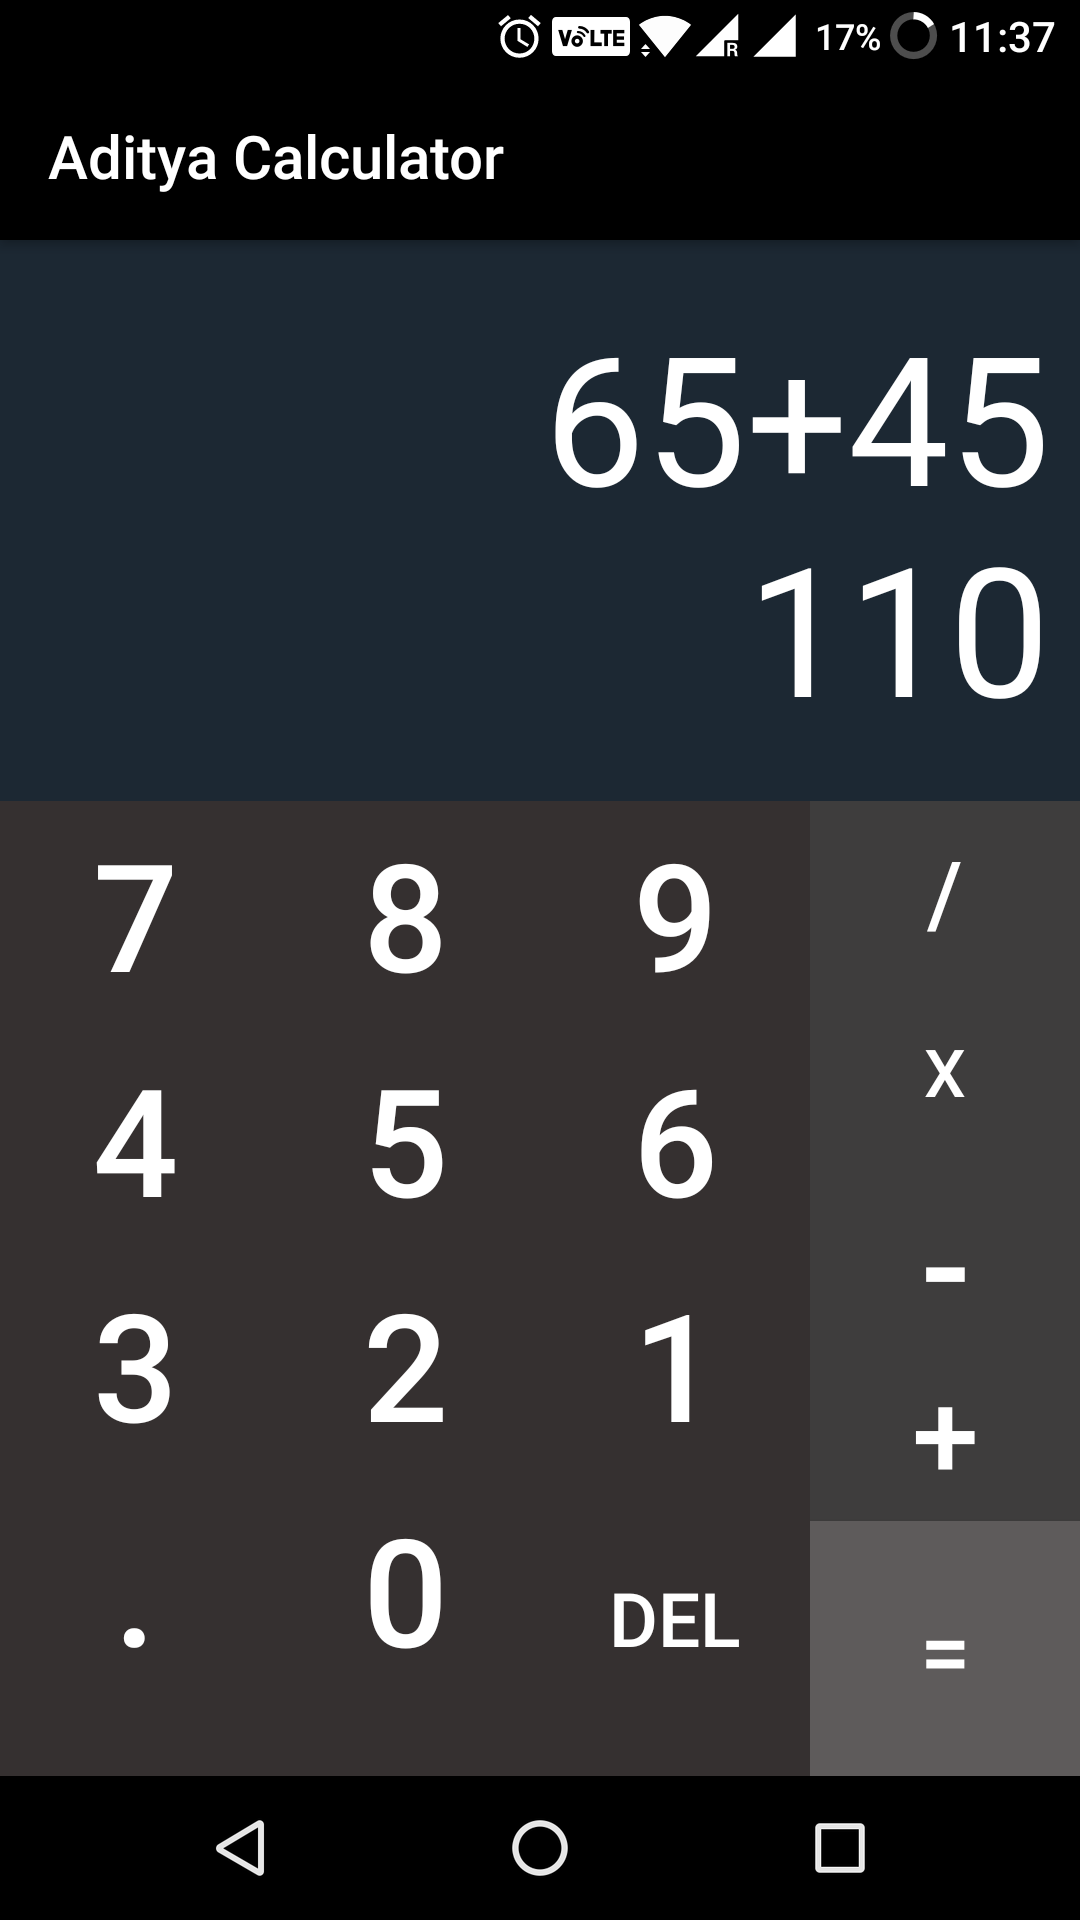
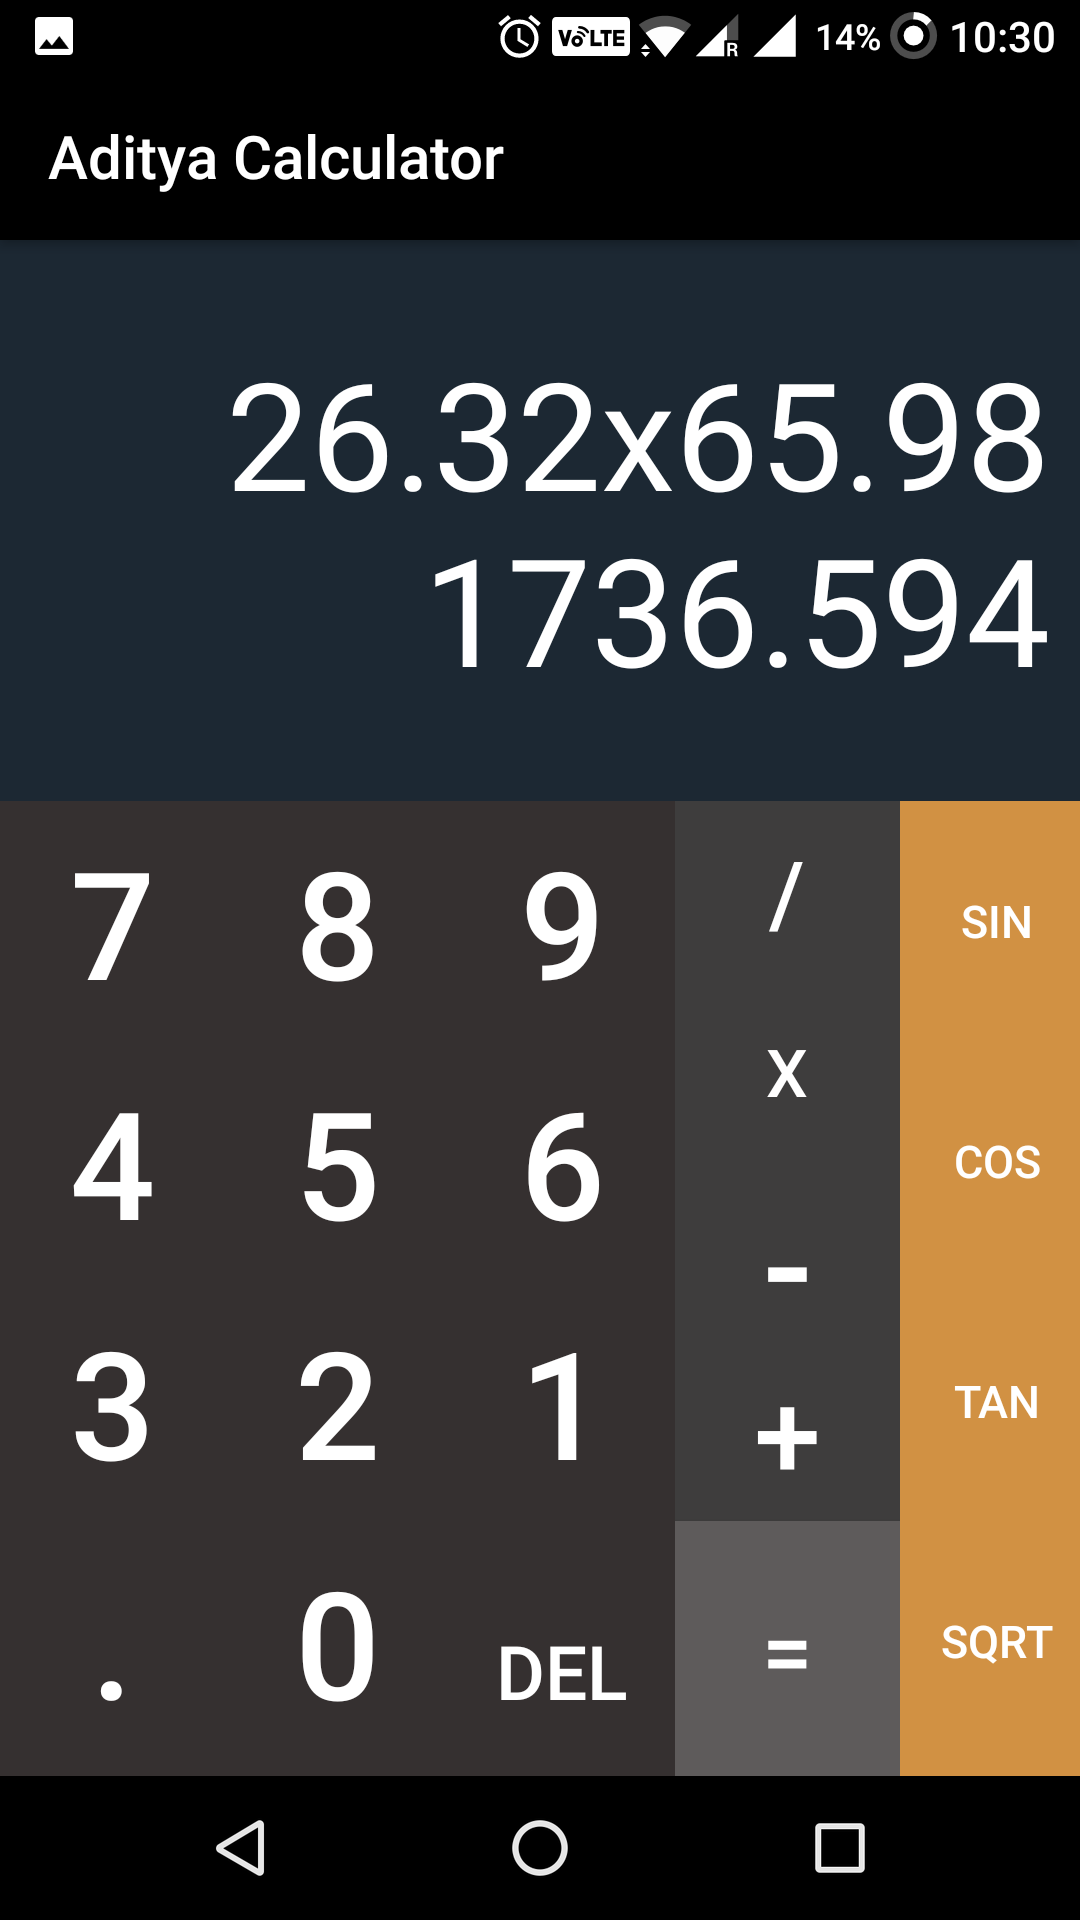
advance func added

diff --git a/app/src/main/java/com/aditya/adityacalculator/Home.java b/app/src/main/java/com/aditya/adityacalculator/Home.java
@@ -1,11 +1,12 @@
-package com.aditya.adityacalc;
-
+package com.aditya.adityacalculator;
 
 import android.support.v7.app.AppCompatActivity;
 import android.os.Bundle;
 import android.view.View;
 import android.widget.Button;
 import android.widget.EditText;
+import java.math.*;
+import java.text.DecimalFormat;
 
 public class Home extends AppCompatActivity {
 
@@ -14,11 +15,14 @@ public class Home extends AppCompatActivity {
     int opdone = 0;
     boolean screenCleared = true;
     double prevValue=0.0;
+    String advOp = "=";
+    DecimalFormat df;
 
     @Override
     protected void onCreate(Bundle savedInstanceState) {
         super.onCreate(savedInstanceState);
         setContentView(R.layout.activity_home);
+        df = new DecimalFormat("#.###");
 
         screen = (EditText) findViewById(R.id.screen);
         Button one = (Button)findViewById(R.id.one);
@@ -38,6 +42,10 @@ public class Home extends AppCompatActivity {
         Button mul = (Button)findViewById(R.id.mul);
         Button div = (Button)findViewById(R.id.div);
         Button eq = (Button)findViewById(R.id.equal);
+        Button sin = (Button)findViewById(R.id.sin);
+        Button cos = (Button)findViewById(R.id.cos);
+        Button tan = (Button)findViewById(R.id.tan);
+        Button sqrt = (Button)findViewById(R.id.sqrt);
 
         Button del = (Button)findViewById(R.id.del);
         del.setOnClickListener(new View.OnClickListener() {
@@ -145,19 +153,45 @@ public class Home extends AppCompatActivity {
                 equal();
             }
         });
+
+        sin.setOnClickListener(new View.OnClickListener() {
+            @Override
+            public void onClick(View view) {
+                performOp("sin");
+            }
+        });
+        cos.setOnClickListener(new View.OnClickListener() {
+            @Override
+            public void onClick(View view) {
+                performOp("cos");
+            }
+        });
+        tan.setOnClickListener(new View.OnClickListener() {
+            @Override
+            public void onClick(View view) {
+                performOp("tan");
+            }
+        });
+        sqrt.setOnClickListener(new View.OnClickListener() {
+            @Override
+            public void onClick(View view) {
+                performOp("sqrt");
+            }
+        });
+
     }
 
     String getEquation() {
         String eq = "";
 
         if ((prevValue == Math.floor(prevValue)) && !Double.isInfinite(prevValue))
-        { eq = eq + (int)prevValue; } else { eq = eq + prevValue; }
+        { eq = eq + (int)prevValue; } else { eq = eq + df.format(prevValue); }
 
         eq = eq  + currOp ;
 
         double val= getScreenValue();
         if ((val == Math.floor(val)) && !Double.isInfinite(val)) { eq = eq +(int)val;}
-        else { eq = eq +  val;}
+        else { eq = eq +  df.format(val);}
 
         return eq;
     }
@@ -166,7 +200,29 @@ public class Home extends AppCompatActivity {
         if(currOp.equals("=")){
             return;
         }
-        String equation=getEquation();
+        String equation;
+        if(!advOp.equals("=") && !screen.getText().toString().equals("") ){
+            switch (advOp){
+                case "sin":
+                    prevValue  = Math.sin(getScreenValue()*Math.PI/180);
+                    break;
+                case "cos":
+                    prevValue = Math.cos(getScreenValue()*Math.PI/180);
+                    break;
+                case "tan":
+                    prevValue = Math.tan(getScreenValue()*Math.PI/180);
+                    break;
+                case "sqrt":
+                    prevValue =Math.sqrt(getScreenValue());
+                    break;
+            }
+            currOp = "=";
+            equation = advOp + "(" + df.format(getScreenValue()) + ")";
+            advOp = "=";
+        }
+        else {
+            equation = getEquation();
+        }
         switch (currOp) {
             case "+":
                 prevValue = prevValue + getScreenValue();
@@ -183,20 +239,50 @@ public class Home extends AppCompatActivity {
             default:
                 break;
         }
-
-        if ((prevValue == Math.floor(prevValue)) && !Double.isInfinite(prevValue)) {
-            screen.setText(equation+"\n"+(int)prevValue);
-
-        }
-        else{
-            screen.setText(equation+"\n"+prevValue + "");
-        }
+        screen.setText(equation+"\n"+df.format(prevValue)+ "");
         opdone++;
         currOp="=";
         screenCleared=false;
     }
 
     void performOp(String op){
+        if(!advOp.equals("=") && !screen.getText().toString().equals("") ){
+            advOp = "=";
+            switch (advOp){
+                case "sin":
+                    prevValue  = Math.sin(getScreenValue()*Math.PI/180);
+                    break;
+                case "cos":
+                    prevValue = Math.cos(getScreenValue()*Math.PI/180);
+                    break;
+                case "tan":
+                    prevValue = Math.tan(getScreenValue()*Math.PI/180);
+                    break;
+                case "sqrt":
+                    prevValue =Math.sqrt(getScreenValue());
+                    break;
+            }
+            currOp = op;
+            screenCleared = false;
+            return;
+        }
+        switch (op){
+            case "sin":
+                advOp = "sin";break;
+            case "cos":
+                advOp = "cos";break;
+            case "tan":
+                advOp = "tan";break;
+            case "sqrt":
+                advOp = "sqrt";break;
+            default:
+                break;
+        }
+
+        if(!advOp.equals("=")){
+            currOp="=";
+        }
+
         switch (currOp) {
             case "+":
                 prevValue = prevValue + getScreenValue();
@@ -216,6 +302,7 @@ public class Home extends AppCompatActivity {
                 }
                 break;
         }
+
         currOp=op;
         screenCleared = false;
     }

diff --git a/app/src/androidTest/java/com/aditya/adityacalculator/ExampleInstrumentedTest.java b/app/src/androidTest/java/com/aditya/adityacalculator/ExampleInstrumentedTest.java
@@ -1,4 +1,4 @@
-package com.aditya.adityacalc;
+package com.aditya.adityacalculator;
 
 import android.content.Context;
 import android.support.test.InstrumentationRegistry;
@@ -21,6 +21,6 @@ public class ExampleInstrumentedTest {
         // Context of the app under test.
         Context appContext = InstrumentationRegistry.getTargetContext();
 
-        assertEquals("com.aditya.adityacalc", appContext.getPackageName());
+        assertEquals("com.aditya.adityacalculator", appContext.getPackageName());
     }
 }

diff --git a/app/src/test/java/com/aditya/adityacalculator/ExampleUnitTest.java b/app/src/test/java/com/aditya/adityacalculator/ExampleUnitTest.java
@@ -1,4 +1,4 @@
-package com.aditya.adityacalc;
+package com.aditya.adityacalculator;
 
 import org.junit.Test;
 

diff --git a/Readme.md b/Readme.md
@@ -3,5 +3,8 @@
 
 All Basic Operations       |  Nice Design
 :-------------------------:|:-------------------------:
-![can perform floating point operations](https://raw.githubusercontent.com/Adityajn/AdityaCalculator/master/Screenshots/2.png)  		 |  ![Nice Design](https://raw.githubusercontent.com/Adityajn/AdityaCalculator/master/Screenshots/1.png)
-
+![Basic Functions](https://raw.githubusercontent.com/Adityajn/AdityaCalculator/master/Screenshots/2.png)  		 |  ![Nice Design](https://raw.githubusercontent.com/Adityajn/AdityaCalculator/master/Screenshots/1.png)
+:-------------------------:|:-------------------------:
+Some Advance Functions
+![trignometry](https://raw.githubusercontent.com/Adityajn/AdityaCalculator/master/Screenshots/3.png) | 
+![square root](https://raw.githubusercontent.com/Adityajn/AdityaCalculator/master/Screenshots/4.png) 
